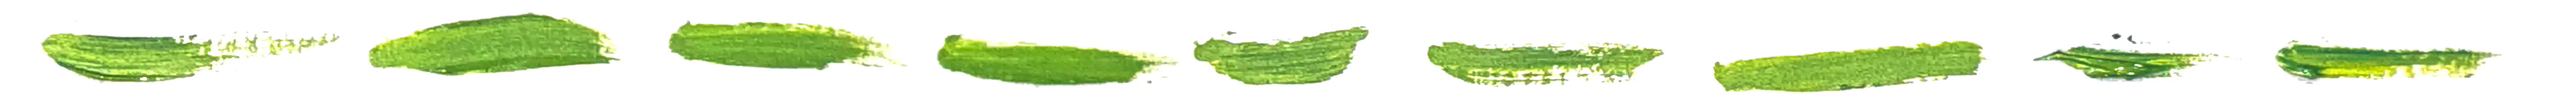
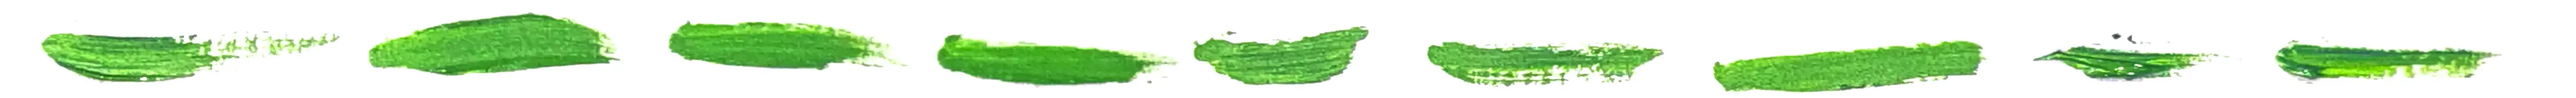
-

Changed region(s): [[0.0, 0.144, 0.9688, 0.9506]]

diff --git a/src/lib/components/sections/Contact.svelte b/src/lib/components/sections/Contact.svelte
@@ -49,9 +49,14 @@
 </script>
 
 <Section id="contact" tone="surface" fullHeight class="md:mb-40">
+<div class="mb-8">
+	<Heading level={4} class="text-ink">Wanna collaborate?{'\n'}Our emails are open.</Heading>
+</div>
 	<div class="flex w-full flex-col py-0 h-full md:pb-20">
+
 	<div class="flex flex-row justify-between items-center mb-2">
-		<Icon name="mail" class="h-6 w-6 text-ink" />
+	<div>
+		<Icon name="mail" class="h-6 w-6 text-ink" /></div>
 		<Heading level={4}>hello@matr.art</Heading>
 	</div>
 		<LazyImage
@@ -98,13 +103,13 @@
 					/>
 					{'>'}</span>
 					</Heading>
-
+<hr class="block md:hidden border"/>
 					<Heading level={3} tag="p" balance={false} class="w-full">
 						<textarea
 							bind:value={message}
 							placeholder={contactContent.form.messagePlaceholder}
 							required
-							rows={4}
+							rows={5}
 							class="w-full resize-none bg-transparent p-0 outline-none placeholder:text-ink-faint"
 						></textarea>
 					</Heading>
